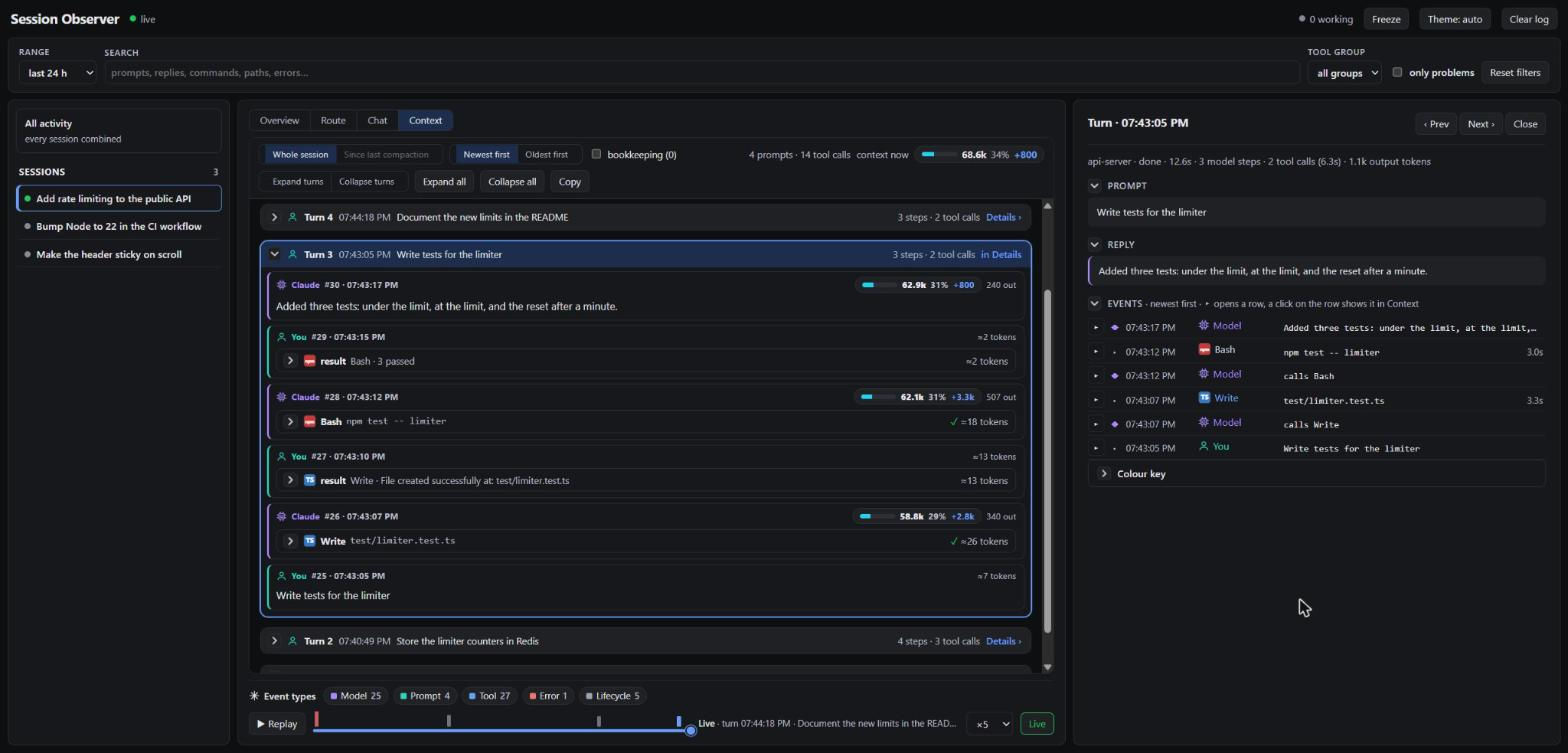
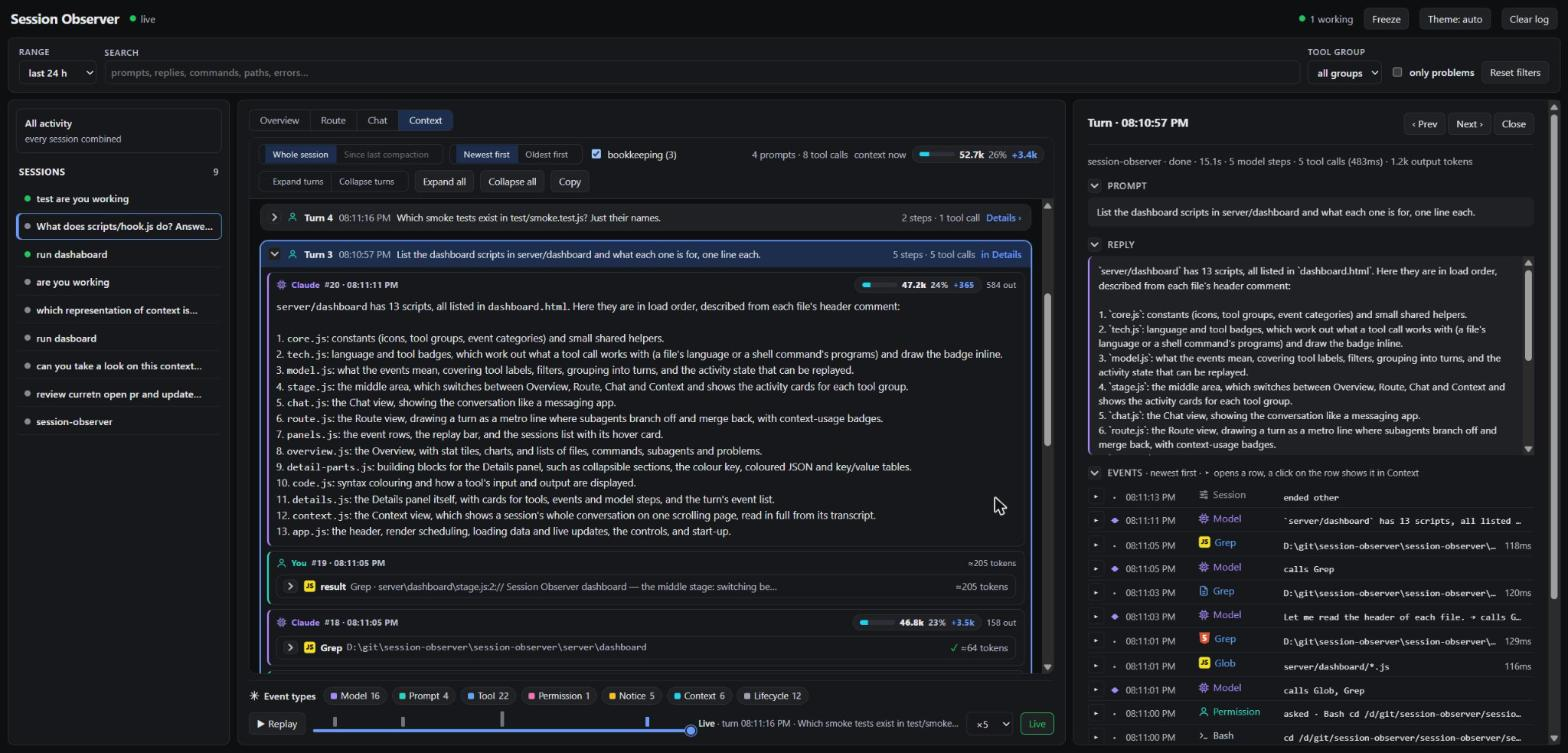
docs: proof screenshots from a real Claude Code session
The previous shots came from made-up data. These are from a real four-prompt
session run with `claude -p` in this repo, viewed with the branch server.

diff --git a/README.md b/README.md
@@ -77,7 +77,7 @@ You on the right, Claude on the left, tool calls as chips.
 
 **Context**
 
-![Context view: the conversation in turns, Turn 3 open and shown in Details, the other turns collapsed to their headers](docs/context.jpg)
+![Context view on a real session: the conversation in turns, Turn 3 open and shown in Details, Turn 4 folded to its header](docs/context.jpg)
 
 The whole session on one page, in full, in the same turns as Details. Fold a turn down to its header,
 or click the header to open that turn in Details.
